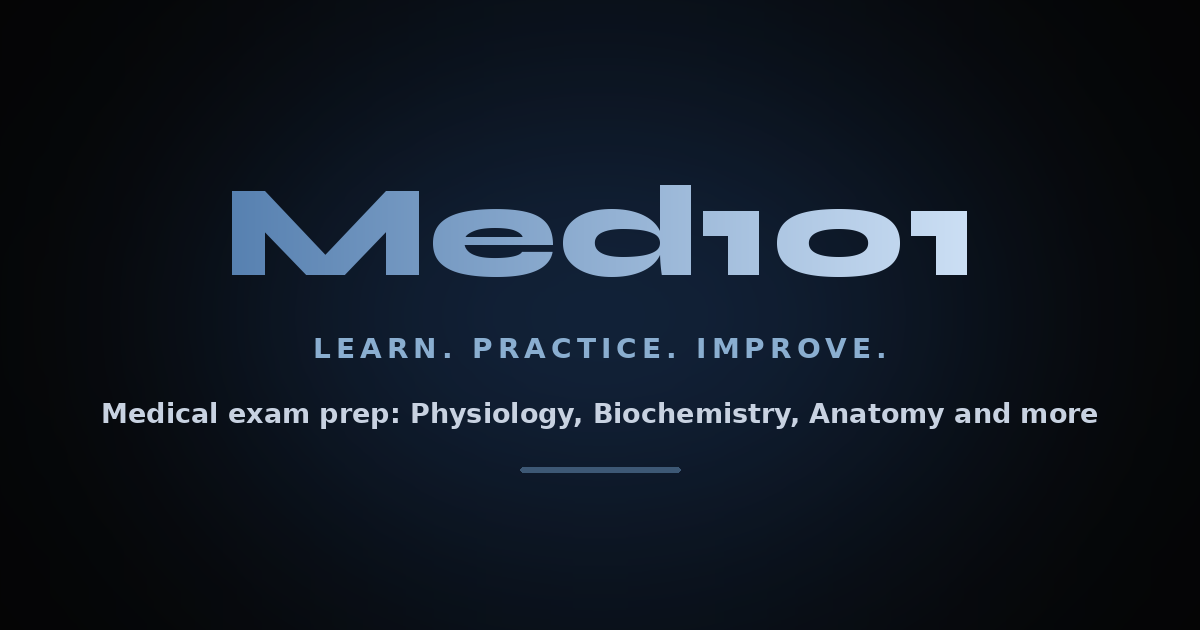
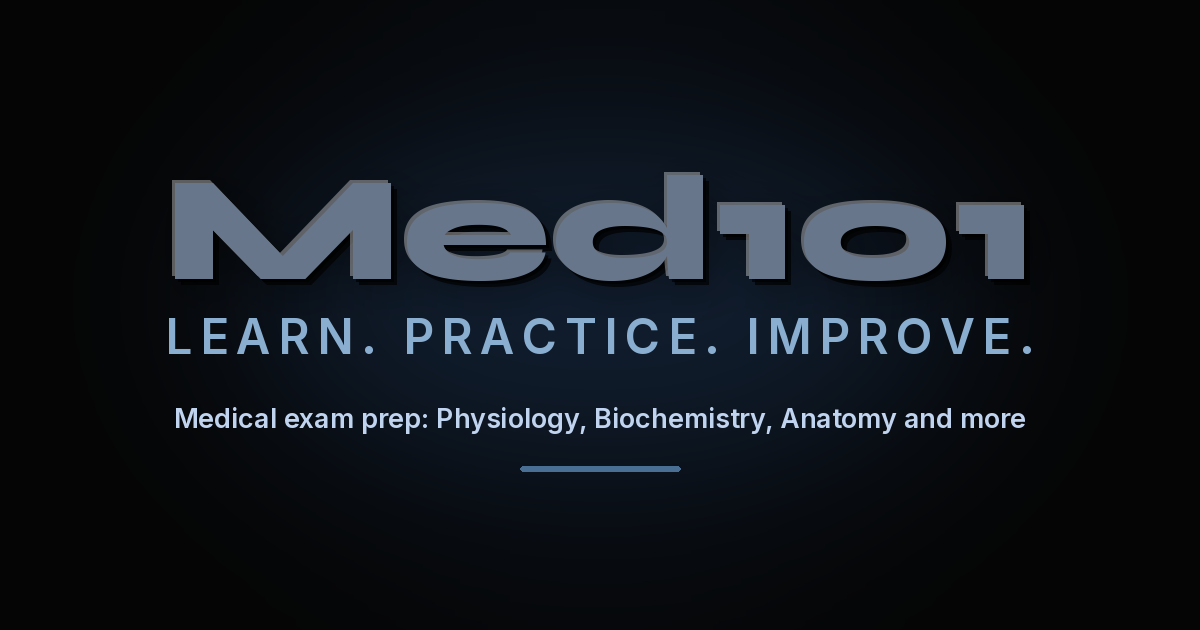
Same Med101 style everywhere: new email lockup image + palette in both emails, regenerated OG image, admin sidebar wordmark (generator in scripts/make-brand-assets.py)

diff --git a/api/templates/welcome-email.html b/api/templates/welcome-email.html
@@ -6,7 +6,7 @@
 
   Styled to match the site's light UI (pale blue page, white card,
   navy accents). Email-client constraints this deliberately respects:
-  - The wordmark is a pre-rendered PNG (public/email-wordmark.png), not
+  - The wordmark is a pre-rendered PNG (public/email-lockup.png), not
     text: gradient text (background-clip:text) and stacked text-shadow
     are invisible or stripped in Outlook and several other clients.
   - No prefers-color-scheme / media queries - clients apply them
@@ -17,38 +17,35 @@
 
   Tokens: {{NAME}}, {{YEAR_SEMESTER_LABEL}}, {{CTA_URL}}, {{WHATSAPP_URL}}
 -->
-<table role="presentation" width="100%" cellpadding="0" cellspacing="0" bgcolor="#e8eeff" style="background:#e8eeff;">
+<table role="presentation" width="100%" cellpadding="0" cellspacing="0" bgcolor="#e9edf3" style="background:#e9edf3;">
   <tr>
     <td align="center" style="padding:32px 16px;font-family:-apple-system,Segoe UI,Roboto,Helvetica,Arial,sans-serif;">
       <table role="presentation" width="480" cellpadding="0" cellspacing="0" bgcolor="#ffffff"
-             style="width:100%;max-width:480px;background:#ffffff;border:1px solid #c0d0ee;border-radius:20px;">
+             style="width:100%;max-width:480px;background:#ffffff;border:1px solid #c8d2df;border-radius:20px;">
         <tr>
           <td style="padding:32px 28px 28px;">
 
-            <img src="https://med101.space/email-wordmark.png" width="132" alt="Med101"
-                 style="display:block;width:132px;height:auto;border:0;" />
-            <div style="font-size:10.5px;font-weight:700;letter-spacing:0.14em;text-transform:uppercase;color:#3d6080;margin-top:6px;">
-              Learn. Practice. Improve.
-            </div>
+            <img src="https://med101.space/email-lockup.png" width="168" alt="Med101 - Learn. Practice. Improve."
+                 style="display:block;width:168px;height:auto;border:0;" />
 
-            <div style="height:1px;background:#c0d0ee;margin:22px 0 24px;line-height:1px;font-size:1px;">&nbsp;</div>
+            <div style="height:1px;background:#c8d2df;margin:22px 0 24px;line-height:1px;font-size:1px;">&nbsp;</div>
 
-            <h1 style="color:#081428;font-size:22px;line-height:1.3;margin:0 0 12px;">Welcome, {{NAME}}! 🎉</h1>
+            <h1 style="color:#0b1626;font-size:22px;line-height:1.3;margin:0 0 12px;">Welcome, {{NAME}}! 🎉</h1>
 
-            <p style="color:#1e3a5c;font-size:14.5px;line-height:1.65;margin:0 0 22px;">
+            <p style="color:#2a4059;font-size:14.5px;line-height:1.65;margin:0 0 22px;">
               Your Med101 account is ready, with the full question bank for
-              <strong style="color:#081428;">{{YEAR_SEMESTER_LABEL}}</strong> - quizzes, weak-topic
+              <strong style="color:#0b1626;">{{YEAR_SEMESTER_LABEL}}</strong> - quizzes, weak-topic
               tracking, and everything else, whenever you want to study.
             </p>
 
-            <table role="presentation" width="100%" cellpadding="0" cellspacing="0" bgcolor="#f0f4ff"
-                   style="background:#f0f4ff;border:1px solid #c0d0ee;border-radius:14px;margin-bottom:26px;">
+            <table role="presentation" width="100%" cellpadding="0" cellspacing="0" bgcolor="#f1f4f8"
+                   style="background:#f1f4f8;border:1px solid #c8d2df;border-radius:14px;margin-bottom:26px;">
               <tr>
                 <td style="padding:18px 20px;">
-                  <div style="color:#0090c8;font-size:11px;font-weight:800;letter-spacing:0.08em;text-transform:uppercase;margin-bottom:10px;">
+                  <div style="color:#3d5c7d;font-size:11px;font-weight:800;letter-spacing:0.08em;text-transform:uppercase;margin-bottom:10px;">
                     Getting started
                   </div>
-                  <div style="color:#1e3a5c;font-size:13.5px;line-height:1.9;">
+                  <div style="color:#2a4059;font-size:13.5px;line-height:1.9;">
                     1. Take your first quiz on any topic<br/>
                     2. Check Weak Topics after a few quizzes to see what to focus on<br/>
                     3. Challenge a classmate head-to-head once you're warmed up
@@ -66,16 +63,16 @@
             <br/>
             <a href="{{WHATSAPP_URL}}"
                style="display:inline-block;margin-top:12px;padding:12px 24px;border-radius:12px;
-                      background:#ffffff;border:1px solid #aabade;color:#1e3a5c;
+                      background:#ffffff;border:1px solid #aebccd;color:#2a4059;
                       font-weight:600;font-size:14.5px;text-decoration:none;">
               <img src="https://med101.space/whatsapp-icon.png" width="16" height="16" alt=""
                    style="vertical-align:-3px;margin-right:6px;border:0;" />
               Join the WhatsApp group
             </a>
 
-            <p style="color:#3d6080;font-size:12px;line-height:1.65;margin:30px 0 0;border-top:1px solid #c0d0ee;padding-top:16px;">
+            <p style="color:#4f647c;font-size:12px;line-height:1.65;margin:30px 0 0;border-top:1px solid #c8d2df;padding-top:16px;">
               Questions or feedback? Just reply, or email
-              <a href="mailto:admin.med101@gmail.com" style="color:#0090c8;text-decoration:none;">admin.med101@gmail.com</a>.
+              <a href="mailto:admin.med101@gmail.com" style="color:#3d5c7d;text-decoration:none;">admin.med101@gmail.com</a>.
               <br/>
               This is a one-time welcome email sent when you created your account.
               If you didn't create this account, you can ignore it.

diff --git a/api/templates/data-export-email.html b/api/templates/data-export-email.html
@@ -8,46 +8,43 @@
   Tokens: {{NAME}}, {{BODY}}, {{NOTE}}  (BODY/NOTE are plain text,
   HTML-escaped by the caller.)
 -->
-<table role="presentation" width="100%" cellpadding="0" cellspacing="0" bgcolor="#e8eeff" style="background:#e8eeff;">
+<table role="presentation" width="100%" cellpadding="0" cellspacing="0" bgcolor="#e9edf3" style="background:#e9edf3;">
   <tr>
     <td align="center" style="padding:32px 16px;font-family:-apple-system,Segoe UI,Roboto,Helvetica,Arial,sans-serif;">
       <table role="presentation" width="480" cellpadding="0" cellspacing="0" bgcolor="#ffffff"
-             style="width:100%;max-width:480px;background:#ffffff;border:1px solid #c0d0ee;border-radius:20px;">
+             style="width:100%;max-width:480px;background:#ffffff;border:1px solid #c8d2df;border-radius:20px;">
         <tr>
           <td style="padding:32px 28px 28px;">
 
-            <img src="https://med101.space/email-wordmark.png" width="132" alt="Med101"
-                 style="display:block;width:132px;height:auto;border:0;" />
-            <div style="font-size:10.5px;font-weight:700;letter-spacing:0.14em;text-transform:uppercase;color:#3d6080;margin-top:6px;">
-              Learn. Practice. Improve.
-            </div>
+            <img src="https://med101.space/email-lockup.png" width="168" alt="Med101 - Learn. Practice. Improve."
+                 style="display:block;width:168px;height:auto;border:0;" />
 
-            <div style="height:1px;background:#c0d0ee;margin:22px 0 24px;line-height:1px;font-size:1px;">&nbsp;</div>
+            <div style="height:1px;background:#c8d2df;margin:22px 0 24px;line-height:1px;font-size:1px;">&nbsp;</div>
 
-            <h1 style="color:#081428;font-size:22px;line-height:1.3;margin:0 0 12px;">Your Med101 data export</h1>
+            <h1 style="color:#0b1626;font-size:22px;line-height:1.3;margin:0 0 12px;">Your Med101 data export</h1>
 
-            <p style="color:#1e3a5c;font-size:14.5px;line-height:1.65;margin:0 0 6px;">Hi {{NAME}},</p>
-            <p style="color:#1e3a5c;font-size:14.5px;line-height:1.65;margin:0 0 22px;">{{BODY}}</p>
+            <p style="color:#2a4059;font-size:14.5px;line-height:1.65;margin:0 0 6px;">Hi {{NAME}},</p>
+            <p style="color:#2a4059;font-size:14.5px;line-height:1.65;margin:0 0 22px;">{{BODY}}</p>
 
-            <table role="presentation" width="100%" cellpadding="0" cellspacing="0" bgcolor="#f0f4ff"
-                   style="background:#f0f4ff;border:1px solid #c0d0ee;border-radius:14px;margin-bottom:22px;">
+            <table role="presentation" width="100%" cellpadding="0" cellspacing="0" bgcolor="#f1f4f8"
+                   style="background:#f1f4f8;border:1px solid #c8d2df;border-radius:14px;margin-bottom:22px;">
               <tr>
                 <td style="padding:14px 18px;">
-                  <div style="color:#0090c8;font-size:11px;font-weight:800;letter-spacing:0.08em;text-transform:uppercase;margin-bottom:4px;">
+                  <div style="color:#3d5c7d;font-size:11px;font-weight:800;letter-spacing:0.08em;text-transform:uppercase;margin-bottom:4px;">
                     📎 Attached
                   </div>
-                  <div style="color:#1e3a5c;font-size:13.5px;line-height:1.6;">
+                  <div style="color:#2a4059;font-size:13.5px;line-height:1.6;">
                     med101-data-export.pdf
                   </div>
                 </td>
               </tr>
             </table>
 
-            <p style="color:#3d6080;font-size:12.5px;line-height:1.65;margin:0;border-top:1px solid #c0d0ee;padding-top:16px;">
+            <p style="color:#4f647c;font-size:12.5px;line-height:1.65;margin:0;border-top:1px solid #c8d2df;padding-top:16px;">
               {{NOTE}}
               <br/>
               Questions? Reply to this email, or write to
-              <a href="mailto:admin.med101@gmail.com" style="color:#0090c8;text-decoration:none;">admin.med101@gmail.com</a>.
+              <a href="mailto:admin.med101@gmail.com" style="color:#3d5c7d;text-decoration:none;">admin.med101@gmail.com</a>.
             </p>
           </td>
         </tr>

diff --git a/src/components/AdminPortal.jsx b/src/components/AdminPortal.jsx
@@ -233,7 +233,7 @@ export default function AdminPortal() {
       <aside className="admin-side">
         <div className="admin-side-brand">
           <span className="admin-portal-badge">ADMIN</span>
-          <span className="admin-side-name">Med101</span>
+          <span className="admin-side-name topbar-logo">Med101</span>
         </div>
 
         <nav className="admin-side-nav" aria-label="Admin sections">

diff --git a/scripts/make-brand-assets.py b/scripts/make-brand-assets.py
@@ -1,0 +1,112 @@
+"""Regenerates the brand images that can't be CSS: public/email-lockup.png
+(light, for emails) and public/og-image.png (dark, social preview).
+
+Wordmark = the site's steel look (flat steel face, navy stepped depth, soft
+shadow, thin rim); tagline = same width as the wordmark, like the site,
+PDF and emails everywhere else.
+
+Usage: python3 scripts/make-brand-assets.py <Syne-ExtraBold.ttf> <Inter-600.ttf>
+(Inter 600: npm pack @fontsource/inter, convert the latin-600 woff2 to ttf.)
+"""
+import sys
+from PIL import Image, ImageDraw, ImageFont, ImageFilter
+
+SYNE, INTER = sys.argv[1], sys.argv[2]
+TAG = 'LEARN. PRACTICE. IMPROVE.'
+
+
+def text_mask(size, text, font, xy):
+    m = Image.new('L', size, 0)
+    ImageDraw.Draw(m).text(xy, text, font=font, fill=255)
+    return m
+
+
+def stamp(canvas, mask, color, dx, dy, alpha=1.0):
+    layer = Image.new('RGBA', canvas.size, color + (0,))
+    a = mask.point(lambda v: int(v * alpha))
+    layer.putalpha(a)
+    shifted = Image.new('RGBA', canvas.size, (0, 0, 0, 0))
+    shifted.alpha_composite(layer, (int(round(dx)), int(round(dy))) if dx >= 0 and dy >= 0 else (0, 0))
+    if dx < 0 or dy < 0:
+        shifted = Image.new('RGBA', canvas.size, (0, 0, 0, 0))
+        shifted.paste(layer, (int(round(dx)), int(round(dy))))
+    canvas.alpha_composite(shifted)
+
+
+def wordmark(canvas, x, y, font, scale, theme):
+    """Draw 'Med101' with the site's layered emboss. scale = px per CSS px."""
+    mask = text_mask(canvas.size, 'Med101', font, (x, y))
+    s = scale
+    if theme == 'light':
+        steps = [  # drawn back to front, mirrors tokens.css light-mode text-shadow
+            ((12, 28, 48), 3.5, 3.5, 0.30, 5), ((30, 58, 95), 2.5, 2.5, 1, 0),
+            ((30, 58, 95), 1.5, 1.5, 1, 0), ((255, 255, 255), -1, -1, 0.9, 0),
+            ((81, 100, 125), 0.6, 0.6, 1, 0)]
+    else:
+        steps = [  # dark-mode stack: dark depth, white rim at 30%, grey-steel face
+            ((0, 0, 0), 3, 3, 0.40, 6), ((0, 0, 0), 2, 2, 0.7, 0), ((0, 0, 0), 1, 1, 0.7, 0),
+            ((255, 255, 255), -1, -1, 0.35, 0), ((104, 118, 140), 0.0, 0.0, 1, 0)]
+    for color, dx, dy, alpha, blur in steps:
+        m = mask.filter(ImageFilter.GaussianBlur(blur * s)) if blur else mask
+        stamp(canvas, m, color, dx * s, dy * s, alpha)
+
+
+def tagline(canvas, x, y, width, font, color):
+    """Tagline whose visible width equals `width` exactly."""
+    advances = [font.getlength(c) for c in TAG]
+    extra = (width - sum(advances)) / (len(TAG) - 1)
+    d = ImageDraw.Draw(canvas)
+    cx = x
+    for c, a in zip(TAG, advances):
+        d.text((cx, y), c, font=font, fill=color)
+        cx += a + extra
+
+
+def ink_bbox(font, text):
+    return font.getbbox(text)
+
+
+# ---------- email lockup (light) ----------
+S = 4  # 4x of the 132px display width -> sharp on retina
+W_CSS = 132
+size_syne = 100
+f_syne = ImageFont.truetype(SYNE, size_syne)
+bb = f_syne.getbbox('Med101')
+mark_w, mark_h = bb[2] - bb[0], bb[3] - bb[1]
+target_w = W_CSS * S
+k = target_w / mark_w
+f_syne = ImageFont.truetype(SYNE, int(size_syne * k))
+bb = f_syne.getbbox('Med101')
+mark_w, mark_h = bb[2] - bb[0], bb[3] - bb[1]
+pad = 10
+tag_size = int(int(size_syne * k) * 0.34)  # a bit smaller than the site's 8/19 so the fitted tracking stays open
+f_tag = ImageFont.truetype(INTER, tag_size)
+canvas = Image.new('RGBA', (mark_w + pad * 2, mark_h + pad + int(tag_size * 2.4) + pad), (0, 0, 0, 0))
+wordmark(canvas, pad - bb[0], pad - bb[1], f_syne, S * (mark_h / (19 * S * 0.72)) / 4 * 0 + mark_h / 28, 'light')
+tagline(canvas, pad, pad + mark_h + int(tag_size * 0.55), mark_w, f_tag, (79, 100, 124, 255))
+canvas = canvas.crop(canvas.getbbox())
+canvas.save('public/email-lockup.png', optimize=True)
+print('email-lockup', canvas.size)
+
+# ---------- OG image (dark) ----------
+W, H = 1200, 630
+og = Image.new('RGBA', (W, H), (5, 5, 5, 255))
+glow = Image.new('RGBA', (W, H), (0, 0, 0, 0))
+ImageDraw.Draw(glow).ellipse((150, 40, 1050, 560), fill=(30, 58, 95, 120))
+og.alpha_composite(glow.filter(ImageFilter.GaussianBlur(120)))
+size = 150
+f = ImageFont.truetype(SYNE, size)
+bb = f.getbbox('Med101')
+mw, mh = bb[2] - bb[0], bb[3] - bb[1]
+x0 = (W - mw) // 2
+y0 = 175
+wordmark(og, x0 - bb[0], y0 - bb[1], f, 3.2, 'dark')
+f_t = ImageFont.truetype(INTER, int(size * 0.32))
+tagline(og, x0, y0 + mh + 26, mw, f_t, (138, 174, 208, 255))
+f_d = ImageFont.truetype(INTER, 27)
+desc = 'Medical exam prep: Physiology, Biochemistry, Anatomy and more'
+dl = ImageDraw.Draw(og).textlength(desc, font=f_d)
+ImageDraw.Draw(og).text(((W - dl) / 2, y0 + mh + 120), desc, font=f_d, fill=(192, 212, 240, 255))
+ImageDraw.Draw(og).rounded_rectangle((W / 2 - 80, y0 + mh + 185, W / 2 + 80, y0 + mh + 190), 3, fill=(74, 111, 148, 255))
+og.convert('RGB').save('public/og-image.png', optimize=True)
+print('og-image', og.size)
